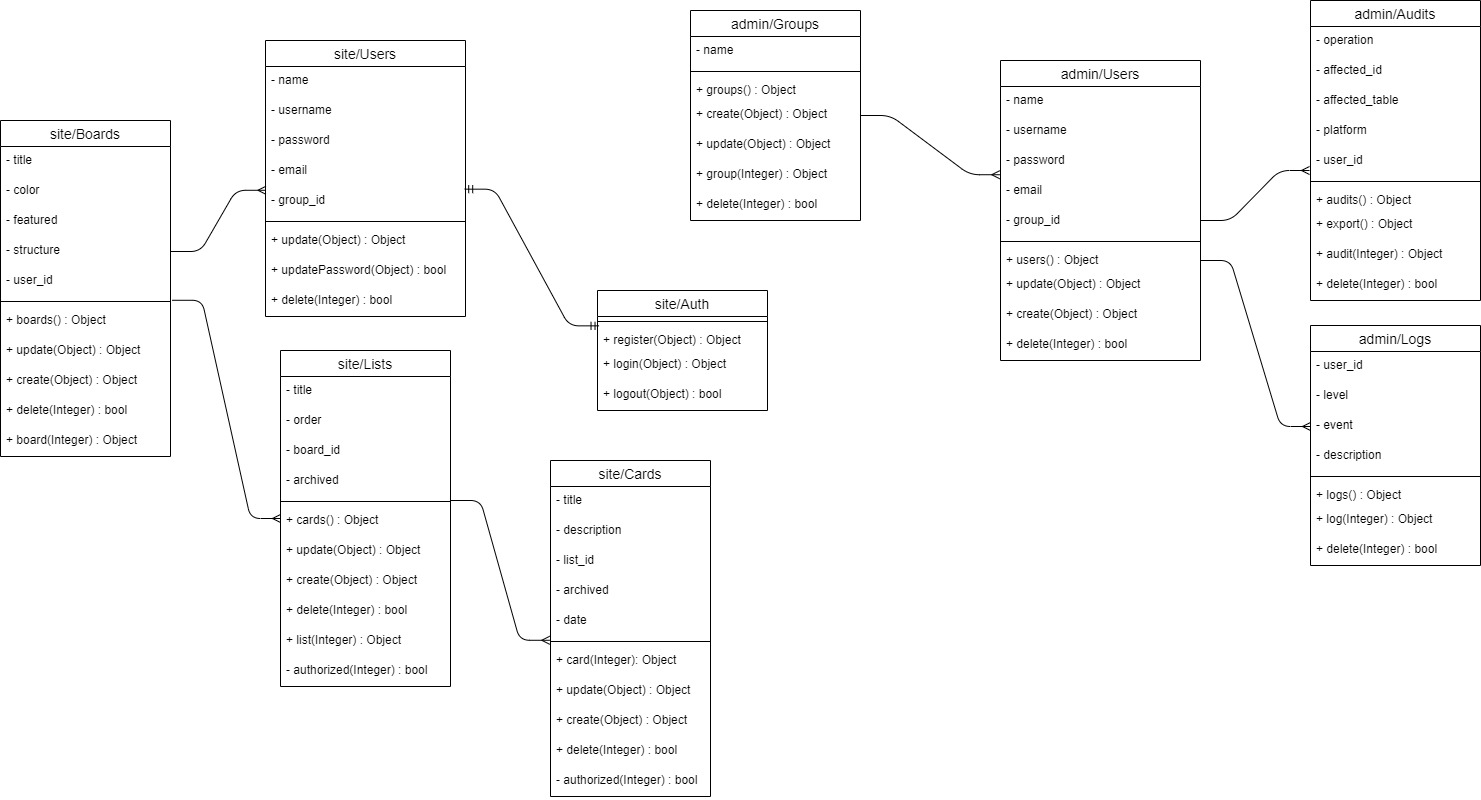
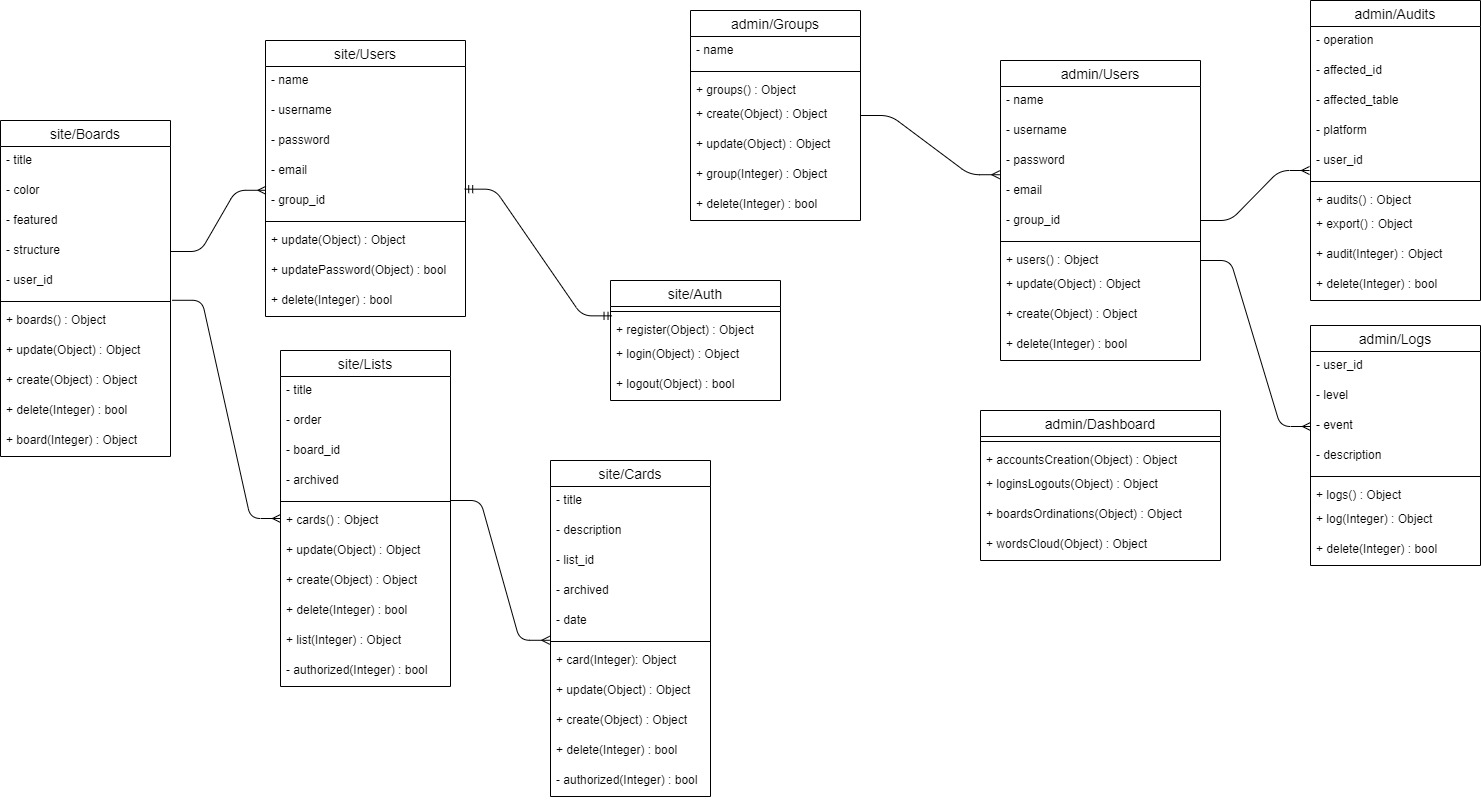
Documentation Update

Changed region(s): [[0.6523, 0.5, 0.8076, 0.6875], [0.3727, 0.3438, 0.528, 0.5]]

diff --git a/docs/br/artifacts.md b/docs/br/artifacts.md
@@ -19,6 +19,8 @@ Data | Atualização
 11/09/2020 | **Criação da seção adminitrativa do sistema** <br> Com necessidade de manter controles de ações em uma área mais abrangente, alem de acesso a parte de erros e mudanças, foi desenvolvida a seção adminitrativa do sistema.
 19/09/2020 | **Criação da tabela de grupos de usuários** <br> Criado para realizar o controle de acesso ao sistema sobre determinados grupos de usuários.
 02/10/2020 | **Subtituição das triggers da auditorias** <br> Substituidas Triggers e View relacionadas a criação e listagem de auditorias e substituida por funções na própria aplicação.
+12/10/2020 | **Tabela de versões adicionada** <br> Criada tabela de versões para controle de logs de erros vinculados à versões lançadas do sistema.
+16/10/2020 | **Criadas dos gráficos do Dashboard do administrador** <br> Criados gráficos de login e logout de usuários, número de contas cadastradas e de atualização dos quadros.
 
 ## Diagrama de classes
 
@@ -39,20 +41,25 @@ Responsável por identificar funcionalidades sensíveis ao usuário final, os re
 Código | Título | Descrição | Prioridade
 ------------ | -------------  | -------------  | -------------
 RF001 | Manter Usuários | Manter o cadastro de usuários, possibilitando a alteração e exclusão ao usuário. O cadastro de usuário é realizado utilizando ferramentas de sincronização como Google ou Facebook | Essencial
-RF002  | Manter quadros de atividades | Manter o cadastro de quadros, possibilitando a vinculação de listas de tarefas a serem feitas | Essencial
-RF003  | Manter listas de tarefas | Manter o cadastro de listas de tarefas, estas vinculadas aos quadros, possibilitam a inserção de tarefas, alteração de ordem de listas sem alteração das tarefas agregadas a elas | 
-RF004  | Manter tarefas | Manter o cadastro de tarefas, onde dentro das mesmas seja possível adicionar textos, anexar arquivos, vincular datas e criar checklists | Essencial
-RF005  | Manter controle de datas nas tarefas | Em casos de tarefas com prazos a serem compridos, é requerida a noticiação do usuário com antecedência sobre o prazo configurado | Essencial
-RF006  | Manter histórico de alterações de tarefas | Possibilitar que o usuário tenha acesso a todas as informações relacionadas a todas as tarefas, quando tarefas forem movidas de listas, manter um histórico de data e o que foi alterado | Essencial
-RF007  | Possibilitar a inserção de anexos às tarefas | Possibilitar ao usuário vincular arquivos de anexos às tarefas | Média
-RF008   | Possibilitar a inserção de checklists às tarefas | Possibilitar ao usuário vincular checklists às tarefas | Média
-RF009  | Manter tela adminitrativa | Possibilitar aos usuários adminitradores acesso a partes restritas de adminitração do sistema | Média
+RF002 | Manter quadros de atividades | Manter o cadastro de quadros, possibilitando a vinculação de listas de tarefas a serem feitas | Essencial
+RF003 | Manter listas de tarefas | Manter o cadastro de listas de tarefas, estas vinculadas aos quadros, possibilitam a inserção de tarefas, alteração de ordem de listas sem alteração das tarefas agregadas a elas | 
+RF004 | Manter tarefas | Manter o cadastro de tarefas, onde dentro das mesmas seja possível adicionar textos, anexar arquivos, vincular datas e criar checklists | Essencial
+RF005 | Manter controle de datas nas tarefas | Em casos de tarefas com prazos a serem compridos, é requerida a noticiação do usuário com antecedência sobre o prazo configurado | Essencial
+RF006 | Manter histórico de alterações de tarefas | Possibilitar que o usuário tenha acesso a todas as informações relacionadas a todas as tarefas, quando tarefas forem movidas de listas, manter um histórico de data e o que foi alterado | Essencial
+RF007 | Possibilitar a inserção de anexos às tarefas | Possibilitar ao usuário vincular arquivos de anexos às tarefas | Média
+RF008 | Possibilitar a inserção de checklists às tarefas | Possibilitar ao usuário vincular checklists às tarefas | Média
+RF009 | Manter tela adminitrativa | Possibilitar aos usuários adminitradores acesso a partes restritas de adminitração do sistema | Média
 RF010 | Manter controle de usúarios na parte administrativa | Possibilitar aos usuários adminitradores acesso ao cadastro de usuários possibilitando realizar alterações e ajustes | Média
 RF011 | Manter listagem de logs | Possibilitar aos usuários adminitradores acesso aos logs de erros | Média
 RF012 | Manter listagem de auditorias | Possibilitar aos usuários adminitradores acesso as auditorias | Média
 RF013 | Manter cadastro de grupos de usuários | Manter o cadastro de grupos de usuários, aos quais conterão controles de acesso específico ao sistema | Essencial
 RF014 | Possibilitar a exportação da auditoria em .CSV | Possibilitar que o usuário Administrador possa realizar a visualização e download dos dados da auditoria em arquivo .CSV | Média
-RF015 | Listagem da auditoria possuir filtro de pesquisa avançado | Possibilitar que o relatório de Auditoriaspossua um filtro de pesquisa avançado. | Média
+RF015 | Listagem da auditoria possuir filtro de pesquisa avançado | Possibilitar que o relatório de Auditorias possua um filtro de pesquisa avançado. | Média
+RF016 | Disponibilizar gráfico de usuários cadastrados| Disponibilizar visualização de gráfico interativo o número de usuários cadastrados por periodos flexíveis. Disponível somente para usuários adminitradores.  | Média
+RF017 | Disponibilizar gráfico de quadros atualizados | Disponibilizar visualização de gráfico interativo o número de atualização de quadros por dia. Disponível somente para usuários adminitradores.  | Média
+RF018 | Disponibilizar gráfico de logins e logouts de usuários | Disponibilizar visualização de gráfico interativo o número de logins e logouts mensais dos usuários. Disponível somente para usuários adminitradores. | Média
+RF019 | Exportação dos gráficos do Dashboard para PDF | Disponibilizar a exportação dos gráficos do Dashboard do administrador para .PDF. | Média
+RF020 | Disponibilizar exibição de nuvem de palavras | Disponibilizar visualização de gráfico do conjunto de palavras mais utilizados nos títulos dos cartões. Disponível somente para usuários adminitradores. | Média
 
 
 ## Requisitos não funcionais
